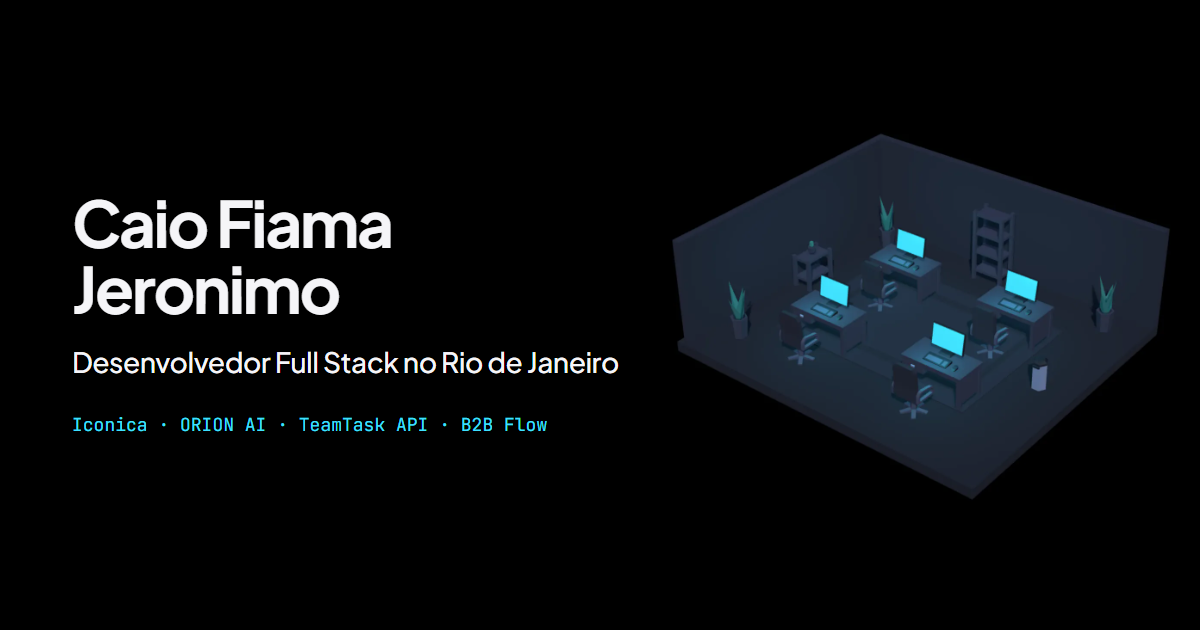
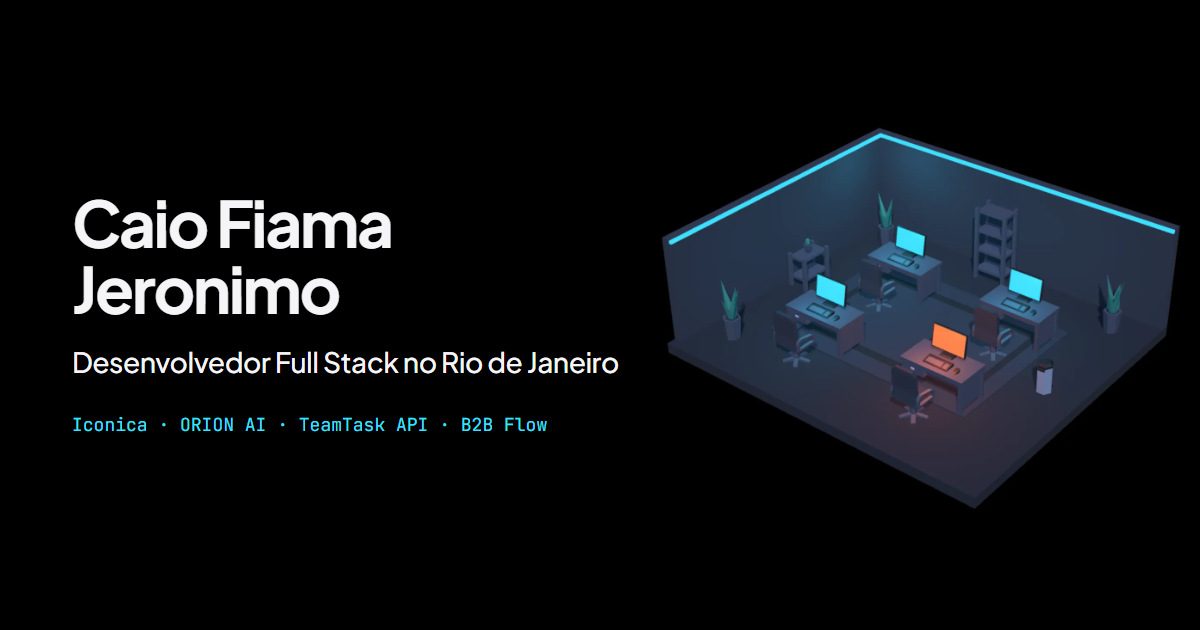
feat: cena 3D mais visível no hero
Luz e contraste maiores, faixa ciano nas paredes, mesa do Iconica acesa,
entrada de câmera de 1,6 s e enquadramento que cabe à direita do texto
de 1024 a 1920 px. Imagens estáticas e de compartilhamento refeitas.

Changed region(s): [[0.555, 0.2111, 0.9867, 0.8143]]

diff --git a/components/scene/OfficeScene.tsx b/components/scene/OfficeScene.tsx
@@ -26,10 +26,14 @@ const DESKS: [number, number][] = [
   [1.1, 0.95],
 ];
 
-/** On wide screens the office moves right, clear of the words. Share of the canvas width. */
-const SHIFT = 0.21;
-/** And a little down, towards the middle of the space under the header. */
-const DROP = 0.02;
+/** On wide screens the office moves right of the words, by this many pixels from the centre. */
+const SHIFT_PX = 290;
+/** Right edge of the hero text, measured from the page gutter (the lead is about 540px wide). */
+const TEXT_WIDTH = 560;
+/** The room's width on screen at zoom 1, as a share of the canvas height. */
+const ROOM_SHARE = 0.82;
+/** And a little up, so the room sits between the header and the project cards. */
+const DROP = -0.035;
 
 type Pose = { position: THREE.Vector3; target: THREE.Vector3 };
 
@@ -42,22 +46,28 @@ function pose(target: [number, number, number], distance: number, elevation: num
 }
 
 /** The whole office at the top of the page, then closer to the desks as the hero scrolls away. */
-const START = pose([W / 2, 0.4, D / 2], 13, 32, 38);
+const START = pose([W / 2, 0.4, D / 2], 12.5, 32, 38);
 const END = pose([W / 2, 0.5, D / 2 - 0.2], 10.2, 24, 28);
 
 const smooth = (t: number) => t * t * (3 - 2 * t);
+
+/** Length of the camera entrance, in seconds. */
+const INTRO = 1.6;
+const UP = new THREE.Vector3(0, 1, 0);
+/** How lit the first desk is when nothing is in focus (1 is fully orange). */
+const IDLE_GLOW = 1;
 
 /** Night colours for the Kenney material names. */
 function makePalette() {
   const flat = (color: string, roughness = 0.85) => new THREE.MeshStandardMaterial({ color, roughness });
   const palette: Record<string, THREE.MeshStandardMaterial> = {
-    wood: flat("#2f323d"),
-    woodDark: flat("#20222a"),
+    wood: flat("#3b3f4d"),
+    woodDark: flat("#2a2d37"),
     metal: flat("#7b8494", 0.5),
     metalDark: flat("#16181e", 0.6),
     metalMedium: flat("#3f4350", 0.6),
     plant: flat("#2e7466"),
-    carpet: flat("#1d1f27", 1),
+    carpet: flat("#262a35", 1),
     carpetDarker: flat("#16181e", 1),
     glass: new THREE.MeshStandardMaterial({ color: "#3fe0ff", transparent: true, opacity: 0.25, roughness: 0.2 }),
     _defaultMat: flat("#2f323d"),
@@ -182,6 +192,9 @@ function Office({ onReady, still }: { onReady?: () => void; still: boolean }) {
   const glow = useRef(featuredProjects.map(() => 0));
   const progress = useRef(still ? 0 : heroStore.progress);
   const announced = useRef(false);
+  /** Seconds since the scene appeared; drives the short camera entrance. */
+  const introTime = useRef(still ? INTRO : 0);
+  const offset = useRef(new THREE.Vector3());
   const look = useRef(new THREE.Vector3());
   const point = useRef(new THREE.Vector3());
 
@@ -203,8 +216,19 @@ function Office({ onReady, still }: { onReady?: () => void; still: boolean }) {
 
   useLayoutEffect(() => {
     const cam = camera as THREE.PerspectiveCamera;
-    if (size.width >= 1024) cam.setViewOffset(size.width, size.height, -size.width * SHIFT, -size.height * DROP, size.width, size.height);
-    else cam.clearViewOffset();
+    if (size.width >= 1024) {
+      // Shrink the room until it fits in the space right of the text, then centre it there.
+      const gutter = size.width >= 1280 ? 80 : 48;
+      const free = size.width - gutter * 2 - TEXT_WIDTH;
+      cam.zoom = Math.min(1, free / (ROOM_SHARE * size.height));
+      // Wider than 1440 the shift grows with the width, so the poster shot at 1600 lines up with it.
+      const shift = SHIFT_PX * Math.max(1, size.width / 1440);
+      cam.setViewOffset(size.width, size.height, -shift, -size.height * DROP, size.width, size.height);
+    } else {
+      cam.zoom = 1;
+      cam.clearViewOffset();
+    }
+    cam.updateProjectionMatrix();
     invalidate();
   }, [camera, size, invalidate]);
 
@@ -219,19 +243,30 @@ function Office({ onReady, still }: { onReady?: () => void; still: boolean }) {
     } else progress.current = goal;
     const t = smooth(progress.current);
     camera.position.lerpVectors(START.position, END.position, t);
-    camera.lookAt(look.current.lerpVectors(START.target, END.target, t));
+    look.current.lerpVectors(START.target, END.target, t);
+    // Entrance: the camera starts a little farther out and turned, and settles in once.
+    if (introTime.current < INTRO) {
+      introTime.current = Math.min(INTRO, introTime.current + Math.min(delta, 0.05));
+      const d = 1 - smooth(introTime.current / INTRO);
+      offset.current.subVectors(camera.position, look.current).multiplyScalar(1 + 0.2 * d);
+      offset.current.applyAxisAngle(UP, 0.22 * d);
+      camera.position.addVectors(look.current, offset.current);
+      moving = true;
+    }
+    camera.lookAt(look.current);
     camera.updateMatrixWorld();
 
     const active = heroStore.getActive();
     featuredProjects.forEach((project, i) => {
-      const want = project.slug === active ? 1 : 0;
+      // With nothing in focus, the live product (the first desk) stays lit in the signal colour.
+      const want = active ? (project.slug === active ? 1 : 0) : i === 0 ? IDLE_GLOW : 0;
       if (Math.abs(want - glow.current[i]) > 0.002) {
         glow.current[i] += (want - glow.current[i]) * k;
         moving = true;
       } else glow.current[i] = want;
       const v = glow.current[i];
       screens[i].emissive.lerpColors(ACCENT, SIGNAL, v);
-      screens[i].emissiveIntensity = 1 + v * 0.6;
+      screens[i].emissiveIntensity = 1 + v * 0.15;
       const light = lights.current[i];
       if (light) {
         light.color.lerpColors(ACCENT, SIGNAL, v);
@@ -258,11 +293,11 @@ function Office({ onReady, still }: { onReady?: () => void; still: boolean }) {
 
   return (
     <group>
-      <hemisphereLight args={["#a9c2ff", "#12141a", 2.4]} />
+      <hemisphereLight args={["#a9c2ff", "#14161d", 2.8]} />
       <directionalLight
         position={[W / 2 + 2.5, 6, D / 2 + 3.5]}
         color="#d6e2ff"
-        intensity={3}
+        intensity={3.4}
         castShadow
         shadow-mapSize={[1024, 1024]}
         shadow-bias={-0.0005}
@@ -278,16 +313,27 @@ function Office({ onReady, still }: { onReady?: () => void; still: boolean }) {
       {/* The room: a floor slab and two low back walls. */}
       <mesh position={[W / 2, -0.06, D / 2]} receiveShadow>
         <boxGeometry args={[W + 0.3, 0.12, D + 0.3]} />
-        <meshStandardMaterial color="#15171d" roughness={0.95} />
+        <meshStandardMaterial color="#1c1f27" roughness={0.95} />
       </mesh>
       <mesh position={[W / 2, 0.6, -0.1]} receiveShadow castShadow>
         <boxGeometry args={[W + 0.3, 1.2, 0.1]} />
-        <meshStandardMaterial color="#20232b" roughness={0.95} />
+        <meshStandardMaterial color="#2b2f3a" roughness={0.95} />
       </mesh>
       <mesh position={[-0.1, 0.6, D / 2 - 0.05]} receiveShadow castShadow>
         <boxGeometry args={[0.1, 1.2, D + 0.2]} />
-        <meshStandardMaterial color="#20232b" roughness={0.95} />
+        <meshStandardMaterial color="#2b2f3a" roughness={0.95} />
       </mesh>
+
+      {/* A cyan light strip along the top of both walls, and the glow it throws into the corner. */}
+      <mesh position={[W / 2, 1.18, -0.035]}>
+        <boxGeometry args={[W + 0.3, 0.035, 0.03]} />
+        <meshBasicMaterial color={ACCENT} toneMapped={false} />
+      </mesh>
+      <mesh position={[-0.035, 1.18, D / 2 - 0.05]}>
+        <boxGeometry args={[0.03, 0.035, D + 0.2]} />
+        <meshBasicMaterial color={ACCENT} toneMapped={false} />
+      </mesh>
+      <pointLight position={[0.5, 1.05, 0.5]} color={ACCENT} intensity={1.4} distance={3.6} decay={2} />
 
       <Model kit={kit} palette={palette} name="rugRectangle" position={[W / 2 - 0.05, 0.002, D / 2 - 0.05]} scale={[1.6, 1, 2]} />
       <Model kit={kit} palette={palette} name="bookcaseOpen" position={[W / 2 - 0.05, 0, 0.16]} />

diff --git a/components/site/HeroVisual.tsx b/components/site/HeroVisual.tsx
@@ -100,8 +100,8 @@ export default function HeroVisual() {
         <img
           className="hero__poster"
           src="/office/poster-mobile.webp"
-          width={1300}
-          height={1000}
+          width={1040}
+          height={800}
           alt="Escritório em 3D com quatro mesas, uma para cada projeto em destaque, com os monitores acesos."
           fetchPriority="high"
           decoding="async"
